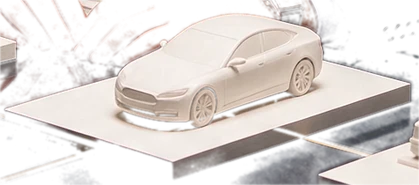
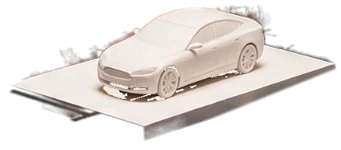
Topo: bens em 80% do tamanho, mesa com mais respiro e João em destaque
Claude-Session: https://claude.ai/code/session_01PWsREDKrVSqGNK6L7kcVFr

diff --git a/app/components/Hero.jsx b/app/components/Hero.jsx
@@ -16,18 +16,18 @@ const CAMINHOS = [
   { id: 'galpao', d: 'M1860 1100 L2018 1028', dur: 3 },
 ];
 const PONTOS = [
-  { x: 1340, y: 720, rotulo: 'Imóvel', sub: 'Casa ou apartamento', caminhos: ['chave', 'base', 'casa'], halo: { y: 800, rx: 240, ry: 110 }, lado: 'esq' },
-  { x: 1421, y: 920, rotulo: 'Investimento imobiliário', sub: 'Comercial ou para locação', caminhos: ['chave', 'base'], halo: { y: 1050, rx: 150, ry: 170 }, lado: 'dir' },
-  { x: 1740, y: 840, rotulo: 'Veículo', sub: 'Carro, moto ou frota', caminhos: ['chave', 'base'], halo: { y: 870, rx: 210, ry: 80 }, lado: 'dir' },
-  { x: 2100, y: 880, rotulo: 'Para a empresa', sub: 'Cresça sem tirar dinheiro do caixa', caminhos: ['chave', 'galpao'], halo: { y: 930, rx: 280, ry: 130 }, lado: 'esq' },
+  { x: 1346, y: 700, rotulo: 'Imóvel', sub: 'Casa ou apartamento', caminhos: ['chave', 'base', 'casa'], halo: { y: 780, rx: 190, ry: 90 }, lado: 'esq' },
+  { x: 1411, y: 890, rotulo: 'Investimento imobiliário', sub: 'Comercial ou para locação', caminhos: ['chave', 'base'], halo: { y: 1020, rx: 120, ry: 140 }, lado: 'dir' },
+  { x: 1743, y: 800, rotulo: 'Veículo', sub: 'Carro, moto ou frota', caminhos: ['chave', 'base'], halo: { y: 880, rx: 170, ry: 65 }, lado: 'dir' },
+  { x: 2111, y: 840, rotulo: 'Para a empresa', sub: 'Cresça sem tirar dinheiro do caixa', caminhos: ['chave', 'galpao'], halo: { y: 955, rx: 220, ry: 105 }, lado: 'esq' },
 ];
 const BRILHOS = [{ x: 1850, y: 1125 }];
 // ordem do pouso: casa, carro, galpão e prédio (o prédio fica na frente)
 const POUSO = [
-  { obj: '/pouso2/casa.webp', sombra: '/pouso2/casa-sombra.webp', x: 1138, y: 662, w: 415, h: 243, ponto: 0 },
-  { obj: '/pouso2/carro.webp', sombra: '/pouso2/carro-sombra.webp', x: 1531, y: 776, w: 419, h: 185, ponto: 2 },
-  { obj: '/pouso2/galpao.webp', sombra: '/pouso2/galpao-sombra.webp', x: 1844, y: 785, w: 516, h: 287, ponto: 3 },
-  { obj: '/pouso2/predio.webp', sombra: '/pouso2/predio-sombra.webp', x: 1240, y: 861, w: 362, h: 342, ponto: 1 },
+  { obj: '/pouso2/casa.webp', sombra: '/pouso2/casa-sombra.webp', x: 1180, y: 712, w: 334, h: 191, ponto: 0 },
+  { obj: '/pouso2/carro.webp', sombra: '/pouso2/carro-sombra.webp', x: 1567, y: 815, w: 341, h: 150, ponto: 2 },
+  { obj: '/pouso2/galpao.webp', sombra: '/pouso2/galpao-sombra.webp', x: 1891, y: 840, w: 419, h: 228, ponto: 3 },
+  { obj: '/pouso2/predio.webp', sombra: '/pouso2/predio-sombra.webp', x: 1281, y: 896, w: 264, h: 258, ponto: 1 },
 ];
 
 // Decide antes de a página aparecer se o pouso roda (primeira visita, sem movimento reduzido).
